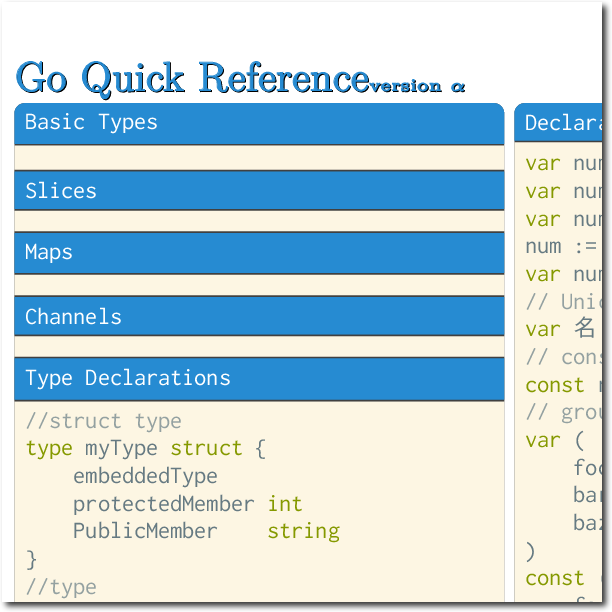
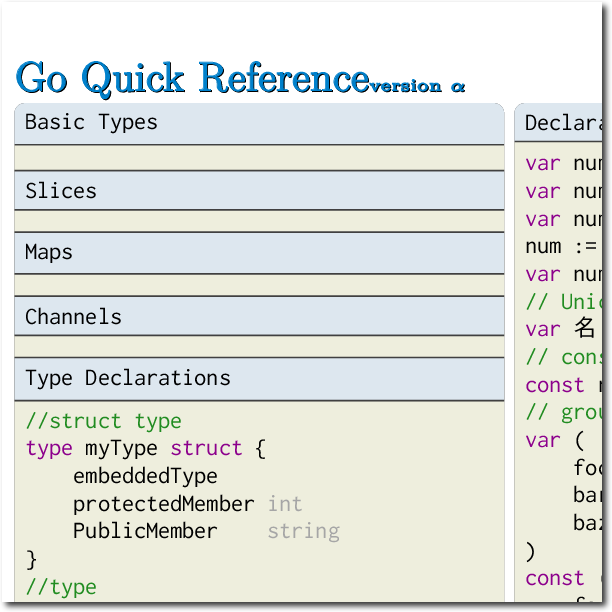
Now themeable
- adding themes the user can define TODO: do it via environment variable
- add manni and perldoc themes
- standardize on perldoc theme for now

diff --git a/golang-ref-sheet.tex b/golang-ref-sheet.tex
@@ -20,8 +20,7 @@
 
 % Local imports (and anything they include) first
 \usepackage{import}
-% To allow us to use solarized colors elsewhere in the document
-\subimport{theme/}{solarized}
+\subimport{theme/}{perldoc}
 
 % Now that we have theme colors, we can set the main font
 \setmainfont{Inconsolata}
@@ -46,12 +45,12 @@
 \setlength{\fancyvrbpartopsep}{0pt}
 
 % Frame/box definitions
-%\pagecolor{sbase01}
+%\pagecolor{grPageColor}
 %TODO: Look at sidebyside, overlay, tcbline, segmentation style
-\newtcolorbox{codebox}[1][]{fontupper=\scriptsize\texttt, coltext=black, colback=sbase3, fonttitle=\scriptsize\texttt, coltitle=white, colbacktitle=sblue, arc=3pt, boxrule=0pt, titlerule=0.5pt, box align=top, before skip=0pt, after skip=3pt, left skip=0pt, right skip=3pt, toptitle=3pt, bottomtitle=3pt, subtitle style={after skip=6pt}, boxsep=0pt, left=3pt, top=3pt, halign=left, title=#1}
+\newtcolorbox{codebox}[1][]{fontupper=\scriptsize\texttt, coltext=grText, colback=grBack, fonttitle=\scriptsize\texttt, coltitle=grHeadingText, colbacktitle=grHeadingBack, arc=3pt, boxrule=0pt, titlerule=0.5pt, box align=top, before skip=0pt, after skip=3pt, left skip=0pt, right skip=3pt, toptitle=3pt, bottomtitle=3pt, subtitle style={after skip=6pt}, boxsep=0pt, left=3pt, top=3pt, halign=left, title=#1}
 
 % Code formatting alias/options
-\usemintedstyle{solarizedlight}
+\usemintedstyle{perldoc}
 \newminted{go}{autogobble}
 
 % Custom commands
@@ -80,7 +79,7 @@
 \begin{minipage}[t][][b]{\textwidth}
     \fontfamily{pag}%
     \fontseries{b}%
-    \textcolor{sblue}{\CheapShadow{\large{Go Quick Reference}\tiny{version $\alpha$}}}\hfill
+    \textcolor{grTitle}{\CheapShadow{\large{Go Quick Reference}\tiny{version $\alpha$}}}\hfill
     \includegraphics[height=12pt]{./figures/gopher.eps}
 \end{minipage}
 \begin{minipage}[t]{.25\textwidth}
@@ -132,7 +131,7 @@
             & || &&&&&&&\tikzmark{b}
 		\end{tabular}
         \begin{tikzpicture}[remember picture, overlay]
-            \draw [->,thick,draw=sblue] ($(pic cs:a) + (0,5pt)$) -- ($(pic cs:b) + (0,-2pt)$) node [midway, sloped, above]{precedence};
+            \draw [->,thick,draw=grAnnotate] ($(pic cs:a) + (0,5pt)$) -- ($(pic cs:b) + (0,-2pt)$) node [midway, sloped, above]{precedence};
         \end{tikzpicture}
         \textasciicircum x = bitwise compliment of x
     \end{codebox}

diff --git a/theme/solarized.tex b/theme/solarized.tex
@@ -1,19 +1,9 @@
 \usepackage[x11names, rgb, html]{xcolor}
 
 % Solarized colors
-\definecolor{sbase03}{HTML}{002B36}
-\definecolor{sbase02}{HTML}{073642}
-\definecolor{sbase01}{HTML}{586E75}
-\definecolor{sbase00}{HTML}{657B83}
-\definecolor{sbase0}{HTML}{839496}
-\definecolor{sbase1}{HTML}{93A1A1}
-\definecolor{sbase2}{HTML}{EEE8D5}
-\definecolor{sbase3}{HTML}{FDF6E3}
-\definecolor{syellow}{HTML}{B58900}
-\definecolor{sorange}{HTML}{CB4B16}
-\definecolor{sred}{HTML}{DC322F}
-\definecolor{smagenta}{HTML}{D33682}
-\definecolor{sviolet}{HTML}{6C71C4}
-\definecolor{sblue}{HTML}{268BD2}
-\definecolor{scyan}{HTML}{2AA198}
-\definecolor{sgreen}{HTML}{859900}
+\definecolor{grBack}{HTML}{FDF6E3} %base3
+\definecolor{grHeadingBack}{HTML}{268BD2} %blue
+\definecolor{grText}{HTML}{586E75} %base01
+\definecolor{grHeadingText}{HTML}{FFFFFF}
+\definecolor{grTitle}{HTML}{268BD2} %blue
+\definecolor{grAnnotate}{HTML}{268BD2} %blue

diff --git a/theme/perldoc.tex b/theme/perldoc.tex
@@ -1,0 +1,9 @@
+\usepackage[x11names, rgb, html]{xcolor}
+
+% Perldoc colors
+\definecolor{grBack}{HTML}{EEEEDD}
+\definecolor{grHeadingBack}{HTML}{DDE7EF}
+\definecolor{grText}{HTML}{000000}
+\definecolor{grHeadingText}{HTML}{000000}
+\definecolor{grAnnotate}{HTML}{0081CC}
+\definecolor{grTitle}{HTML}{0081CC}

diff --git a/theme/manni.tex b/theme/manni.tex
@@ -1,0 +1,9 @@
+\usepackage[x11names, rgb, html]{xcolor}
+
+% Manni colors
+\definecolor{grBack}{HTML}{F0F3F3}
+\definecolor{grHeadingBack}{HTML}{FFF1D6}
+\definecolor{grText}{HTML}{000000}
+\definecolor{grHeadingText}{HTML}{000000}
+\definecolor{grAnnotate}{HTML}{0099FF}
+\definecolor{grTitle}{HTML}{0099FF}
